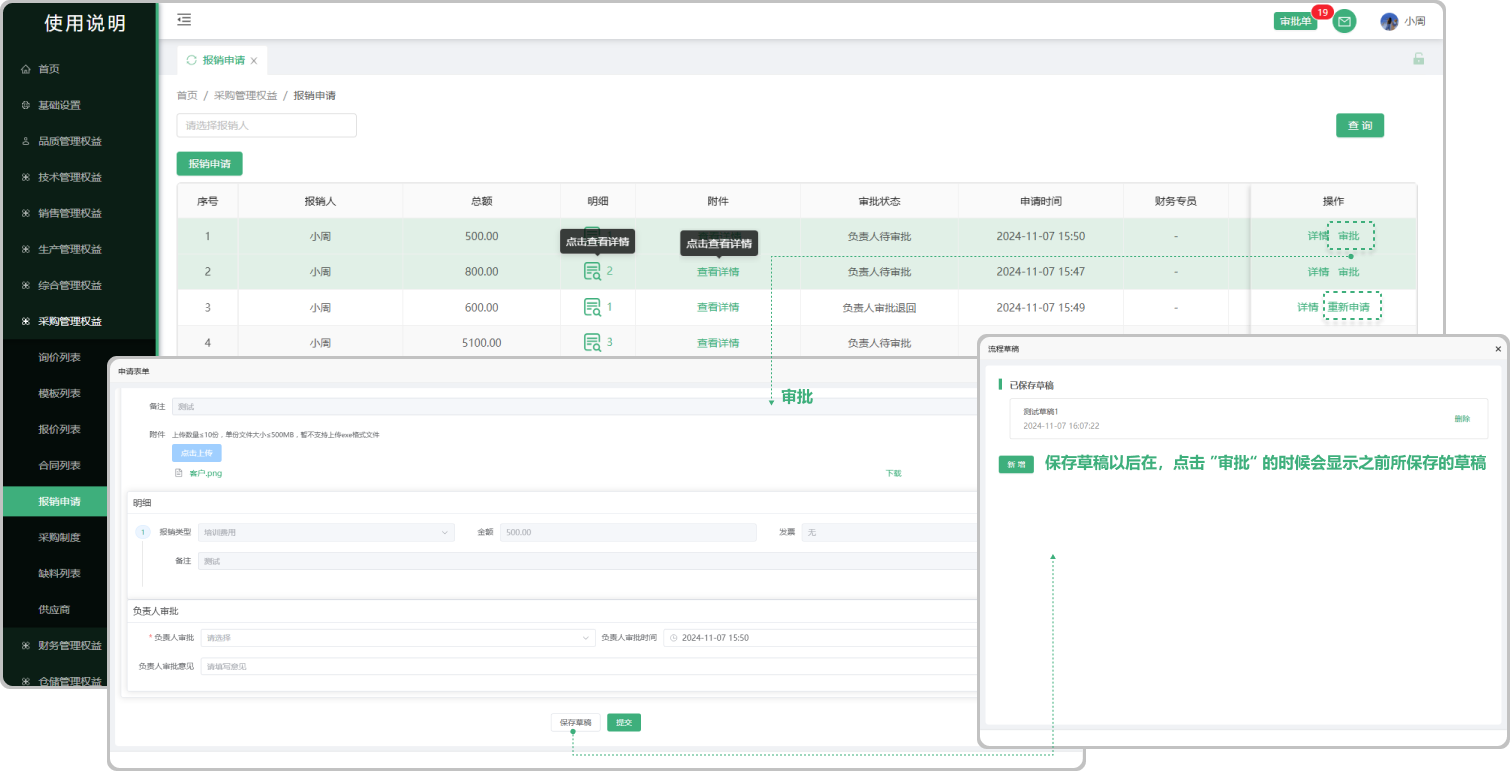
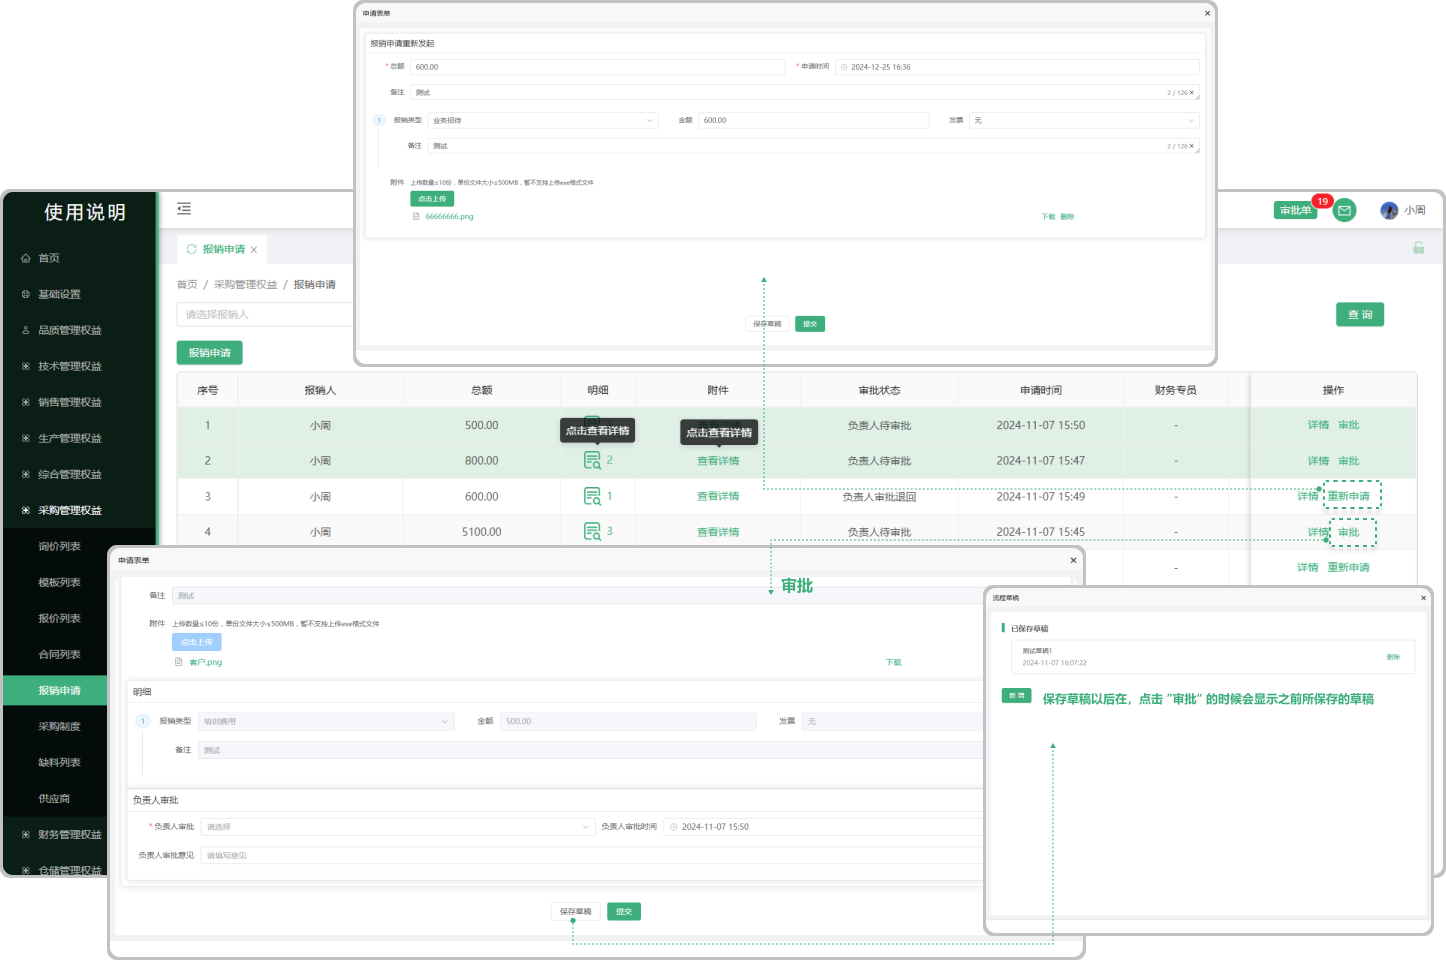
jintianxiugai

diff --git a/docs/采购管理/报销申请.md b/docs/采购管理/报销申请.md
@@ -2,17 +2,29 @@
 
 > "报销申请列表”位于"采购管理板块，在报销申请列表中可以新增所报销的单子（可上传多个附件、添加多个费用明细），需要审批人进行审批（有审批这个权限的人员才能审批，可到基础设置中的， ”流程权限管理“ 中设置）如果审批被退回，需要重新发起申请，新增完报销单子以后页面可以查看明细、附件
 
-#### 1. 如图所示：
-* 报销申请：点击报销申请可新增报销单，（可上传多个附件（支持删除、下载、预览）、添加多个费用明细）
-* 保存草稿：保存以后的草稿可在新增报销单，点击 ”报销申请“ 的时候显示之前所保存的草稿
-* 明细：指在申请报销时所添加的明细（明细下方对应的图标数字是指当时添加了多少明细）
-* 附件：指在申请报销时所上传的文件（支持打印，下载）
+#### 1. 新增报销申请
+* 点击报销申请可新增报销单，（可上传多个附件（支持删除、下载、预览）、添加多个费用明细）
+
+#### 2.保存草稿功能、
+
+* 可存为草稿，草稿可在新增报销单，点击 ”报销申请“按钮 的时候显示之前所保存的草稿
+
+#### 3.明细
+
+* 在申请报销时所添加的明细（明细下方对应的图标数字是指当时添加了多少明细）
+
+#### 3.附件
+* 指在申请报销时所上传的文件（支持打印，下载）
 
 ![如图所示](../file/cg-bxsq1.png)
 
-#### 2. 如图所示：
-* 审批：当新增完报销申请时，需要审批人去审批（有审批这个权限的人员才能审批，可到基础设置中的， ”流程权限管理“ 中设置）
-* 重新申请：指的是被审批人退回来（不通过的意思）需要再次重新申请
-* 草稿箱：保存草稿以后，再次点击审批的时候会显示之前所保存的草稿
+#### 4. 审批
+
+* 当新增完报销申请时，需要审批人去审批（有审批这个权限的人员才能审批，可到基础设置中的， ”流程权限管理“ 中设置）
+
+#### 5.重新申请
+
+* 指的是被审批人退回来，需要再次重新申请
+
 ![如图所示](../file/cg-bxsq2.png)
 

diff --git a/docs/采购管理/供应商.md b/docs/采购管理/供应商.md
@@ -1,18 +1,35 @@
 
 # 供应商
 
-> "供应商列表"位于采购管理板块，在"供应商列表中可新增相对应的"供方" 信息，新增的供方信息支持编辑、更改、新增联系人（在采购管理的合同列表和模板列表需用到供方的信息）
+> "供应商列表"位于采购管理板块，在"供应商列表中可新增相对应的"供方" 信息，新增的供方信息支持编辑、更改、新增联系人
 
-#### 1. 如图所示：
-* 新增供方：点击跳出弹窗添加供方的信息资料，支持添加多个联系人，鼠标悬浮在联系人框内显示删除图标，填完信息点击保存即可
-* 草稿：再次新增供方信息的时候，点击进去显示之前所保存的草稿
-* 联系人：页面中联系人字段下方对应的联系人可以点击查看详细信息和再次编辑
-* 编辑：可以修改之前所新增的供方
+#### 1.新增供方
+
+  -可添加供方的信息
+
+  -支持添加多个供方联系人(鼠标悬浮在联系人信息上支持删除)
+
+#### 2.联系人
+
+* 点击页面联系人名称，可进行编辑（联系人可存在多个）
+
+#### 3.编辑功能
+
+* 可在原有的供方信息上面进行更改保存
+
+#### 4.保存草稿功能、
+
+* 可存为草稿，再次打开编辑的时候显示之前所存的草稿
+
 
 ![如图所示](../file/cg-gys1.png)
 
-#### 2. 如图所示：
-* 变更：可以修改之前所新增的供方
-* 新增联系人：可以在之前所编辑的供方信息基础上去新增联系人（支持多个）添加完成以后在界面对应的联系人可看到新增的联系人信息（点击查看详情）
+#### 4.变更
+
+* 可修改采购员信息
+
+#### 5.新增联系人
+
+* 可在之前所编辑的供方信息基础上去新增联系人（支持多个）添加完成后可在界面对应的联系人中点击人员名称可看到新增的联系人信息
 
 ![如图所示](../file/cg-gys2.png)

diff --git a/docs/采购管理/报价列表.md b/docs/采购管理/报价列表.md
@@ -2,12 +2,21 @@
 
 > "报价列表”位于采购管理板块，在 "报价列表" 中可查看所有报价的信息（来源于需方在采购板块的”询价列表”中与供方公司新增的询价信息，分为（已成交、未成交），取决于供方的销售部“询价列表中”进行转为报价单以后显示 "未成交"（需要在供方的销售部 ”报价列表中点击详情里面转化为合同以后，或者在需方采购部 “报价列表详情中下单（转为合同）以后显示 ”已成交“）
 
-#### 1. 如图所示：
+#### 1. 状态提示
+
 * 未成交：只是报价完成，没有在转换为合同情况下显示 "未成交"
+
 * 已成交：需要在供方的销售部 ”报价列表中点击详情里面转化为合同以后，或者在需方采购部 “报价列表详情中下单（转合同）以后显示 ”已成交“
-* 分发：超级用户/管理员将未指定接收询价的采购人员的报价数据，分发给某个采购（支持再次分发）
+#### 2.分发
+
+* 超级用户/管理员将未指定接收询价的采购人员的报价数据，分发给某个采购（支持再次分发）
+
+#### 3.报价详情
+
 * 历史报价：跟这个公司销售过这个产品，如果再次报价就会有之前的报价信息
+
 * 历史成交价：跟这个公司销售过这个产品,成功以后再次销售会有之前的历史成交价
-* 下单：点击下单转换到签署合同界面(可签署成合同)
+
+* 下单：未成交的情况下点击详情会显示下单按钮，点击可转换到签署合同界面(可签署成合同)
 
 ![如图所示](../file/cg-bjlb.png) 

diff --git a/docs/采购管理/缺料列表.md b/docs/采购管理/缺料列表.md
@@ -1,9 +1,9 @@
 
 # 缺料列表
 
-> "缺料列表“ 位于采购管理板块 ，缺料列表的数据主要来源于在调度排单时采购的材料（采购、外协），采购完成以后会带到缺料列表中，进行分发、询价
+> "缺料列表“ 位于采购管理板块 ，所采购的任何零件物料等等都会流转到缺料列表中
 
-#### 1. 如图所示：
+#### 1.批量询价
 * 产品：采购的这个产品（点击产品下方对应的产品名称可以查看产品的详情）
 * 零件：采购的这个零件（点击零件下方对应的零件名称可以查看零件的详情）
 * 工序：这个产品/零件当时所添加的工序（点击产品/零件下方对应的工序名称可以查看工序的详情）
